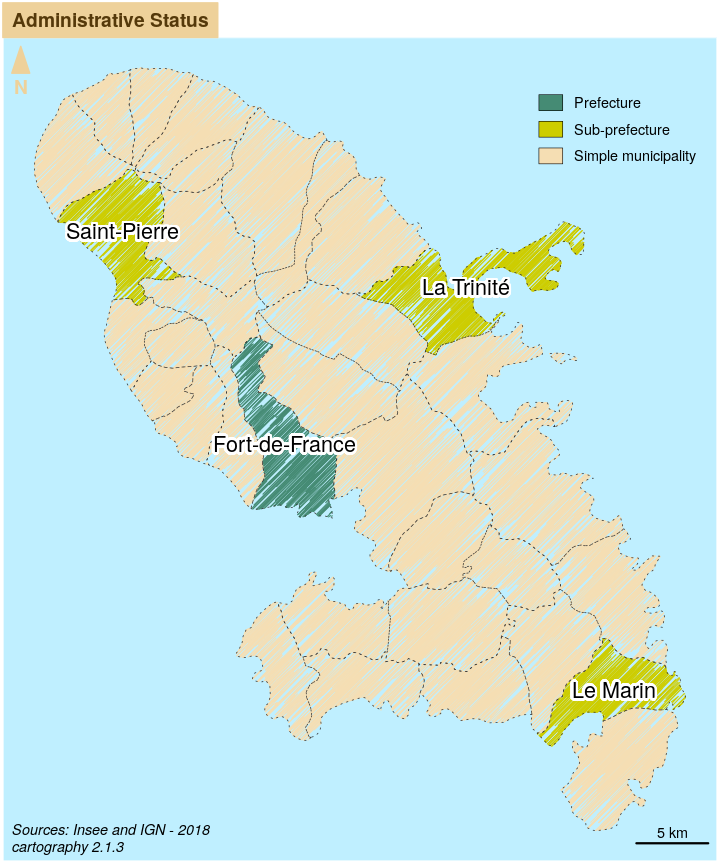
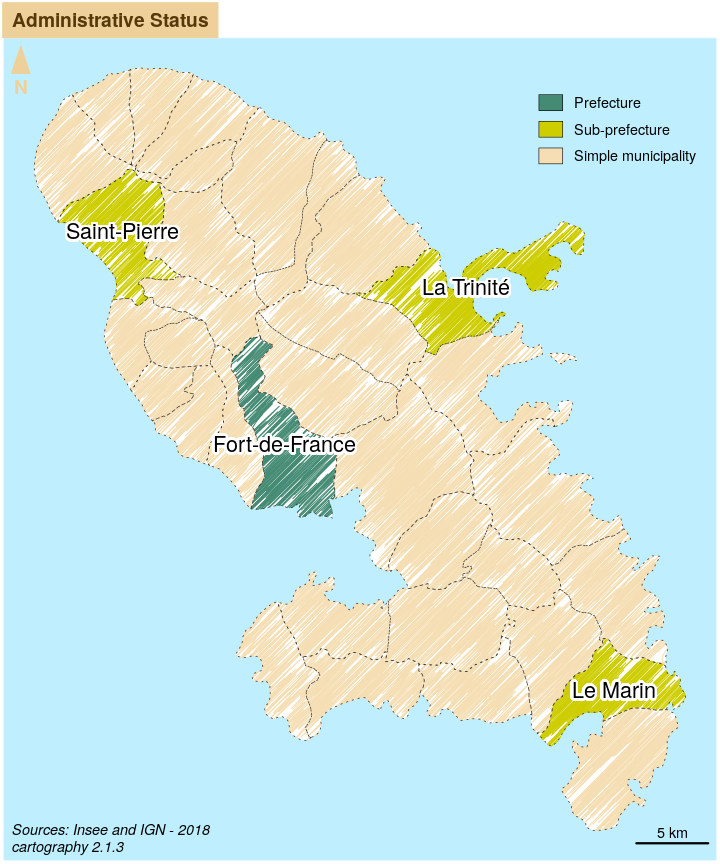
doc

Changed region(s): [[0.0306, 0.0625, 0.9472, 0.875], [0.7639, 0.875, 0.8861, 0.9688]]

diff --git a/docs/articles/cartography.html b/docs/articles/cartography.html
@@ -139,7 +139,7 @@ Along with the cartographic functions, some other functions are dedicated to lay
 <h2 class="hasAnchor">
 <a href="#openstreetmap-base-map-and-proportional-symbols" class="anchor"></a>OpenStreetMap Base Map and Proportional Symbols</h2>
 <p><code><a href="../reference/getTiles.html">getTiles()</a></code> and <code><a href="../reference/tilesLayer.html">tilesLayer()</a></code> download and display OpenStreetMap tiles. Be careful to cite the source of the tiles appropriately.</p>
-<p><code><a href="../reference/propSymbolsLayer.html">propSymbolsLayer()</a></code> displays symbols proportionals to a quantitative variable (stocks). Several symbols are available (circles, squares, bars). The <code>inches</code> argument is used to customize the symbols sizes.</p>
+<p><code><a href="../reference/propSymbolsLayer.html">propSymbolsLayer()</a></code> displays symbols proportional to a quantitative variable (stocks). Several symbols are available (circles, squares, bars). The <code>inches</code> argument is used to customize the symbols sizes.</p>
 <div class="sourceCode" id="cb1"><pre class="sourceCode r"><code class="sourceCode r"><a class="sourceLine" id="cb1-1" data-line-number="1"><span class="kw"><a href="https://www.rdocumentation.org/packages/base/topics/library">library</a></span>(sf)</a>
 <a class="sourceLine" id="cb1-2" data-line-number="2"><span class="kw"><a href="https://www.rdocumentation.org/packages/base/topics/library">library</a></span>(cartography)</a>
 <a class="sourceLine" id="cb1-3" data-line-number="3"><span class="co"># path to the geopackage file embedded in cartography</span></a>
@@ -208,9 +208,9 @@ Along with the cartographic functions, some other functions are dedicated to lay
 <a class="sourceLine" id="cb2-30" data-line-number="30"><span class="kw"><a href="../reference/north.html">north</a></span>(<span class="dt">pos =</span> <span class="st">"topleft"</span>)</a></code></pre></div>
 <p><img src="cartography_files/figure-html/choroMap-1.png" width="360"></p>
 </div>
-<div id="colored-pencil-maps-and-typolgies" class="section level2">
+<div id="colored-pencil-maps-and-typologies" class="section level2">
 <h2 class="hasAnchor">
-<a href="#colored-pencil-maps-and-typolgies" class="anchor"></a>Colored Pencil Maps and Typolgies</h2>
+<a href="#colored-pencil-maps-and-typologies" class="anchor"></a>Colored Pencil Maps and Typologies</h2>
 <div class="sourceCode" id="cb3"><pre class="sourceCode r"><code class="sourceCode r"><a class="sourceLine" id="cb3-1" data-line-number="1"><span class="kw"><a href="https://www.rdocumentation.org/packages/base/topics/library">library</a></span>(sf)</a>
 <a class="sourceLine" id="cb3-2" data-line-number="2"><span class="kw"><a href="https://www.rdocumentation.org/packages/base/topics/library">library</a></span>(cartography)</a>
 <a class="sourceLine" id="cb3-3" data-line-number="3"><span class="co"># path to the geopackage file embedded in cartography</span></a>
@@ -224,7 +224,7 @@ Along with the cartographic functions, some other functions are dedicated to lay
 <a class="sourceLine" id="cb3-11" data-line-number="11">  <span class="dt">lefthanded =</span> F</a>
 <a class="sourceLine" id="cb3-12" data-line-number="12">)</a>
 <a class="sourceLine" id="cb3-13" data-line-number="13"><span class="co"># plot municipalities (only the backgroung color is plotted)</span></a>
-<a class="sourceLine" id="cb3-14" data-line-number="14"><span class="kw"><a href="https://www.rdocumentation.org/packages/sf/topics/plot">plot</a></span>(<span class="kw"><a href="https://www.rdocumentation.org/packages/sf/topics/st_geometry">st_geometry</a></span>(mtq), <span class="dt">col =</span> <span class="ot">NA</span>, <span class="dt">border =</span> <span class="ot">NA</span>, <span class="dt">bg =</span> <span class="st">"lightblue1"</span>)</a>
+<a class="sourceLine" id="cb3-14" data-line-number="14"><span class="kw"><a href="https://www.rdocumentation.org/packages/sf/topics/plot">plot</a></span>(<span class="kw"><a href="https://www.rdocumentation.org/packages/sf/topics/st_geometry">st_geometry</a></span>(mtq), <span class="dt">col =</span> <span class="st">"white"</span>, <span class="dt">border =</span> <span class="ot">NA</span>, <span class="dt">bg =</span> <span class="st">"lightblue1"</span>)</a>
 <a class="sourceLine" id="cb3-15" data-line-number="15"><span class="co"># plot administrative status</span></a>
 <a class="sourceLine" id="cb3-16" data-line-number="16"><span class="kw"><a href="../reference/typoLayer.html">typoLayer</a></span>(</a>
 <a class="sourceLine" id="cb3-17" data-line-number="17">  <span class="dt">x =</span> mtq_pencil, </a>
@@ -509,7 +509,7 @@ Along with the cartographic functions, some other functions are dedicated to lay
 <a href="#examples">Examples</a><ul class="nav nav-pills nav-stacked">
 <li><a href="#openstreetmap-base-map-and-proportional-symbols">OpenStreetMap Base Map and Proportional Symbols</a></li>
       <li><a href="#choropleth-map">Choropleth Map</a></li>
-      <li><a href="#colored-pencil-maps-and-typolgies">Colored Pencil Maps and Typolgies</a></li>
+      <li><a href="#colored-pencil-maps-and-typologies">Colored Pencil Maps and Typologies</a></li>
       <li><a href="#label-map">Label Map</a></li>
       <li><a href="#isopleth-map">Isopleth Map</a></li>
       <li><a href="#grid-map">Grid Map</a></li>

diff --git a/docs/news/index.html b/docs/news/index.html
@@ -146,6 +146,7 @@
 <li>only suggest OSM basemap sources without API key requirement.</li>
 <li>add source citation recommandation in getTiles()</li>
 <li>update README</li>
+<li>refounded vignette</li>
 </ul>
 </div>
 </div>
@@ -213,7 +214,7 @@
 <li>bug fix in propSymbols*Layer() when using a POINT layer with add=FALSE.</li>
 <li>bug fix in *Link*Layer() (df).</li>
 <li>add R, sf and sp version requirement + sf SystemRequirements</li>
-<li>allow dataframe AND tibbles as input for df arguùment in relevant functions</li>
+<li>allow dataframe AND tibbles as input for df argument in relevant functions</li>
 <li>add postitle to set the position of the title in laoutLayer()</li>
 <li>add tabtitle to set the size of the title banner in layoutLayer()</li>
 </ul>
